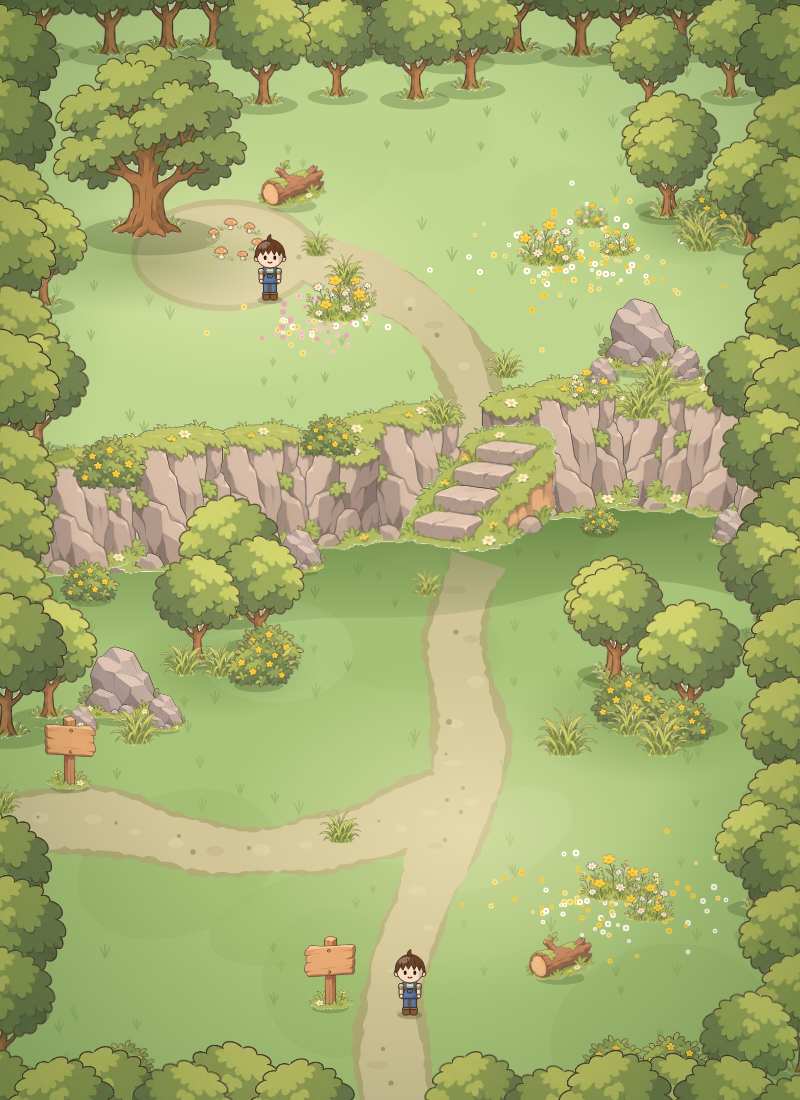
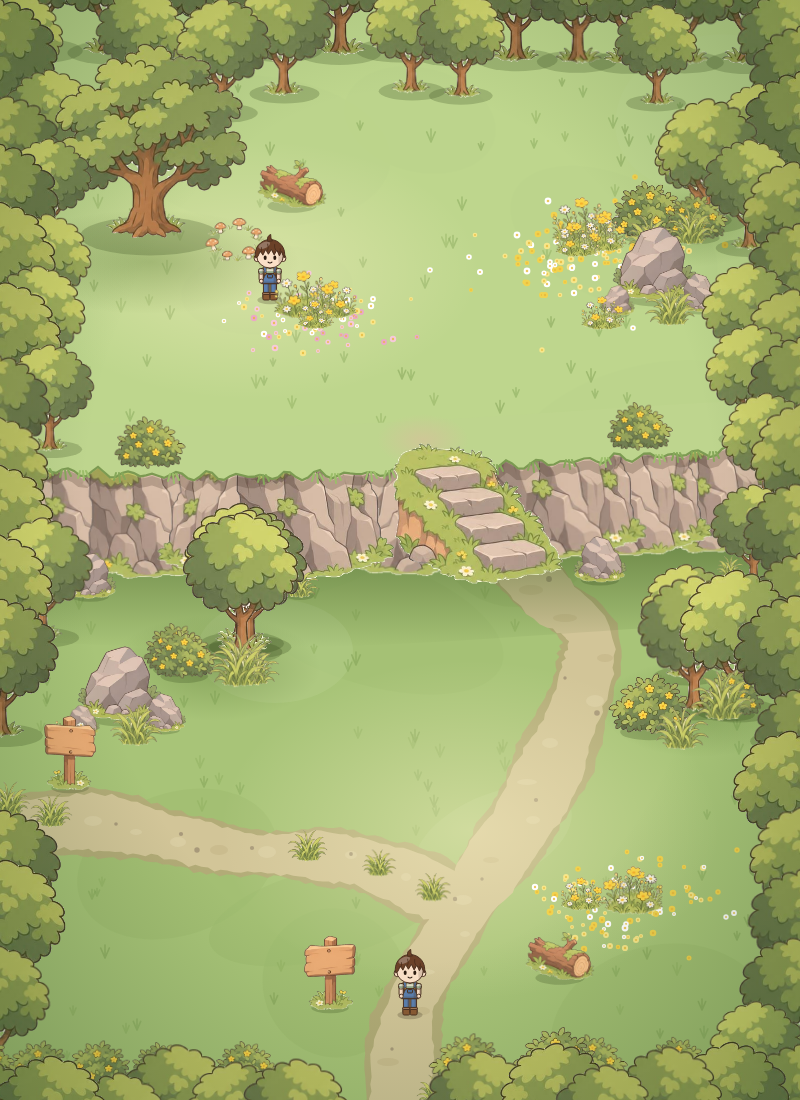
115 1115 0742

diff --git a/tools/map_layout_ref.py b/tools/map_layout_ref.py
@@ -15,8 +15,11 @@ def put(k,x,y,s=1.0,flip=None,br=1.0,shadow=True,flat=False):
     objs.append((-1e9 if flat else y,g))
 W,H=800,1100
 # ---------- terrace edge (wavy) ----------
-def E(x): return 438+26*math.sin(x/800*math.pi*1.7+0.6)+10*math.sin(x/800*math.pi*4.3)
-TH=108; GAP=(430,526)
+def E(x): return 452+14*math.sin(x/800*math.pi*1.25+0.4)
+TH=112; GAP=(418,538)
+SX=(GAP[0]+GAP[1])/2; SH=140; SW=SH*324/267
+STX0=SX-SW/2; STY0=E(SX)+TH+14-SH
+S_TOP=(STX0+SW*0.27,STY0+SH*0.12); S_BOT=(STX0+SW*0.76,STY0+SH*0.86)   # stairs are mirrored: they climb up-left
 # ---------- ground ----------
 g=[f'<rect x="-40" y="-40" width="{W+80}" height="{H+80}" fill="#A8C478"/>']
 for i in range(16):
@@ -44,9 +47,10 @@ def ribbon(P,w,seed,taper=False):
         if taper: hw*=min(1,(n-1-i)/14+0.15)
         L.append((x+nx*(hw+rr.uniform(-2,2)),y+ny*(hw+rr.uniform(-2,2)))); Rr.append((x-nx*(hw+rr.uniform(-2,2)),y-ny*(hw+rr.uniform(-2,2))))
     poly=L+Rr[::-1]; return 'M'+' L'.join(f'{x:.1f} {y:.1f}' for x,y in poly)+'Z', pts
-paths=[ ([(400,1140),(392,1000),(430,880),(470,760),(455,640),(478,560)],58,1,False),      # south exit -> stairs
-        ([(-40,835),(90,820),(220,850),(340,840),(446,800)],50,2,False),                  # west exit joins
-        ([(478,450),(470,380),(420,310),(330,265),(250,250)],46,3,True) ]                 # top: stairs -> lookout clearing
+dx,dy=S_TOP[0]-S_BOT[0],S_TOP[1]-S_BOT[1]; dl=math.hypot(dx,dy); ux,uy=dx/dl,dy/dl
+paths=[ ([(400,1140),(410,1010),(470,900),(540,790),(S_BOT[0]-ux*110,S_BOT[1]-uy*110),(S_BOT[0]-ux*40,S_BOT[1]-uy*40),(S_BOT[0]+ux*6,S_BOT[1]+uy*6)],56,1,False),   # south exit -> foot of stairs, arriving along the stairs' axis
+        ([(-40,835),(90,822),(230,850),(360,862),(462,905)],48,2,False),                                                # west exit joins the main path
+      ]
 pe=[];pf=[];pp=[]
 for P,w,sd,tp in paths:
     d,pts=ribbon(P,w+10,sd,tp); pe.append(f'<path d="{d}" fill="#B5A678" opacity=".8"/>')
@@ -58,14 +62,14 @@ for P,w,sd,tp in paths:
         if rr.random()<.45: pp.append(f'<circle cx="{x+rr.uniform(-w*.42,w*.42):.0f}" cy="{y+rr.uniform(-5,5):.0f}" r="{rr.uniform(1.5,3):.1f}" fill="#A8997A"/>')
 # lookout clearing (dirt patch) at end of top path
 clear=f'<ellipse cx="225" cy="255" rx="92" ry="54" fill="#B5A678" opacity=".8"/><ellipse cx="225" cy="255" rx="84" ry="47" fill="#D2C598"/>'
-clear=f'<ellipse cx="225" cy="255" rx="88" ry="50" fill="#D2C598"/>'
-g+= pe+[f'<ellipse cx="225" cy="255" rx="94" ry="56" fill="#B5A678" opacity=".8"/>']+pf+[clear]+pp
+clear=''
+g+= pe+pf+pp
 # grass tufts & tiny flowers on ground (decals)
 def inpath(x,y):
     for P,w,sd,tp in paths:
         for (px,py) in spline(P,20):
             if abs(px-x)<w*0.55 and abs(py-y)<w*0.55: return True
-    return math.hypot((x-225)/90,(y-255)/52)<1
+    return False
 for i in range(230):
     x,y=R.uniform(30,770),R.uniform(70,1070)
     if inpath(x,y) or (E(x)+8<y<E(x)+TH+14): continue
@@ -82,7 +86,7 @@ t.append(f'<path d="{sh}" fill="url(#shg)"/>')
 for a,b in ((-40,GAP[0]),(GAP[1],840)):
     d='M'+' L'.join(f'{x} {E(x)+10:.1f}' for x in range(a,b+1,10))+' '+' '.join(f'L{x} {E(x)+TH-8:.1f}' for x in range(b,a-1,-10))+'Z'
     t.append(f'<path d="{d}" fill="#9F8A7C"/>')
-t.append(f'<path d="M{GAP[0]-6} {E(GAP[0])+14:.0f} L{GAP[1]+6} {E(GAP[1])+14:.0f} L{GAP[1]+6} {E(GAP[1])+TH-6:.0f} L{GAP[0]-6} {E(GAP[0])+TH-6:.0f}Z" fill="#6E5C50"/>')
+t.append(f'<path d="M{GAP[0]-6} {E(GAP[0])+14:.0f} L{GAP[1]+6} {E(GAP[1])+14:.0f} L{GAP[1]+6} {E(GAP[1])+TH-6:.0f} L{GAP[0]-6} {E(GAP[0])+TH-6:.0f}Z" fill="#8C796C"/>')
 tiles=[]
 aw=128*1.0
 for a,b in ((-40,GAP[0]+10),(GAP[1]-10,840)):
@@ -94,8 +98,22 @@ w0,h0=DIM['cliff']
 for by,cx,k,fl in tiles:
     hh=137*k; ww=hh*w0/h0
     t.append(f'<g transform="translate({cx:.1f} {by:.1f}) scale({-1 if fl else 1} 1)"><image href="{A}cliff.png" x="{-ww/2:.1f}" y="{-hh:.1f}" width="{ww:.1f}" height="{hh:.1f}"/></g>')
-sx=(GAP[0]+GAP[1])/2; w0,h0=DIM['stairs']; shh=132; sww=shh*w0/h0
-t.append(f'<image href="{A}stairs.png" x="{sx-sww/2:.1f}" y="{E(sx)+TH+12-shh:.1f}" width="{sww:.1f}" height="{shh:.1f}"/>')
+# grass lip: the high ground itself flows over the edge and hides the sprites' own tops (a wall has a top; a cliff's top IS the ground)
+HI="#BED58E"
+for a_,b_ in ((-40,840),):
+    xs=list(range(a_,b_+1,6)); top=[(x,E(x)-40) for x in xs]; bot=[]
+    ph=R.uniform(0,6)
+    for x in xs: bot.append((x,E(x)+7+5*abs(math.sin(x*0.085+ph))+3*math.sin(x*0.23+ph)))
+    d='M'+' L'.join(f'{x} {y:.1f}' for x,y in top)+' '+' '.join(f'L{x} {y:.1f}' for x,y in bot[::-1])+'Z'
+    t.append(f'<path d="M'+' L'.join(f'{x} {y+7:.1f}' for x,y in bot)+f'" fill="none" stroke="#3A2A1C" stroke-width="9" opacity=".22" stroke-linecap="round"/>')
+    t.append(f'<path d="{d}" fill="{HI}"/>')
+    t.append(f'<path d="M'+' L'.join(f'{x} {y:.1f}' for x,y in bot)+f'" fill="none" stroke="#7C9A52" stroke-width="2.2" stroke-linecap="round"/>')
+    for x in xs[2:-2:3]:
+        if R.random()<.5:
+            y=E(x)+9; c=R.choice(['#86A85A','#9CBE6A'])
+            t.append(f'<path d="M{x} {y:.0f} l-2 7 M{x+3} {y:.0f} l1 9 M{x+6} {y:.0f} l3 6" stroke="{c}" stroke-width="2" stroke-linecap="round" fill="none"/>')
+t.append(f'<ellipse cx="{S_TOP[0]+ux*26:.0f}" cy="{S_TOP[1]+uy*26:.0f}" rx="46" ry="26" fill="url(#worn)"/>')   # no path on the high ground: only a worn patch at the head of the stairs
+t.append(f'<g transform="translate({SX:.1f} 0) scale(-1 1) translate({-SX:.1f} 0)"><image href="{A}stairs.png" x="{STX0:.1f}" y="{STY0:.1f}" width="{SW:.1f}" height="{SH:.1f}"/></g>')
 # ---------- border: staggered, varied, wavy inner edge ----------
 def exit_gap(side,v):
     if side=='s' and abs(v-400)<70: return True
@@ -140,13 +158,13 @@ def outcrop(cx,cy):
 # high ground: lookout with hero oak beside the clearing, flower meadow, outcrop
 put('oak',150,238,1.05,flip=False)
 meadow(318,318,9,74,30,pal=('#FFFFFF','#F6C9DA','#EBA9C6','#F7E68A')); meadow(585,255,12,105,48)
-outcrop(640,372); put('log',292,208,1.0)
+outcrop(655,300); put('log',292,208,1.0)
 grove(690,205,2,46)
 put('mush',235,262,1.1,shadow=False,flat=False)
 # edge dressing on the lip (sells that the top continues to the edge)
-for x in (110,330,640): put('bush' if R.random()<.5 else 'tg',x,E(x)+18,R.uniform(.7,.95),shadow=False)
+for x in (150,640): put('bush',x,E(x)+4,R.uniform(.7,.9),shadow=False)
 # low ground
-grove(215,650,3,56); grove(650,700,3,70,oak=False)
+grove(215,650,3,56); grove(700,690,3,52,oak=False)
 meadow(615,905,11,110,46)
 outcrop(120,720)
 for x in (90,300,600,730):   # things leaning against the cliff base
@@ -166,6 +184,6 @@ objs.append((1015,f'<g transform="translate(410 1015) scale(1.15)">{ava}</g>'))
 objs.append((300,f'<g transform="translate(270 300) scale(1.15)">{ava}</g>'))
 objs.sort(key=lambda o:o[0])
 css=open('out/game.css',encoding='utf8').read()
-defs='<defs><radialGradient id="gsh"><stop offset="0" stop-color="#4E6E2A" stop-opacity=".34"/><stop offset="1" stop-color="#4E6E2A" stop-opacity="0"/></radialGradient><radialGradient id="sun"><stop offset="0" stop-color="#FFF6C8" stop-opacity=".42"/><stop offset="1" stop-color="#FFF6C8" stop-opacity="0"/></radialGradient><radialGradient id="vig" cx=".5" cy=".48" r=".72"><stop offset=".55" stop-color="#22401A" stop-opacity="0"/><stop offset="1" stop-color="#22401A" stop-opacity=".30"/></radialGradient><linearGradient id="shg" x1="0" y1="0" x2="0" y2="1"><stop offset="0" stop-color="#3F5A22" stop-opacity=".55"/><stop offset="1" stop-color="#3F5A22" stop-opacity="0"/></linearGradient></defs>'
+defs='<defs><radialGradient id="worn"><stop offset="0" stop-color="#D2C598" stop-opacity=".85"/><stop offset="1" stop-color="#D2C598" stop-opacity="0"/></radialGradient><radialGradient id="gsh"><stop offset="0" stop-color="#4E6E2A" stop-opacity=".34"/><stop offset="1" stop-color="#4E6E2A" stop-opacity="0"/></radialGradient><radialGradient id="sun"><stop offset="0" stop-color="#FFF6C8" stop-opacity=".42"/><stop offset="1" stop-color="#FFF6C8" stop-opacity="0"/></radialGradient><radialGradient id="vig" cx=".5" cy=".48" r=".72"><stop offset=".55" stop-color="#22401A" stop-opacity="0"/><stop offset="1" stop-color="#22401A" stop-opacity=".30"/></radialGradient><linearGradient id="shg" x1="0" y1="0" x2="0" y2="1"><stop offset="0" stop-color="#3F5A22" stop-opacity=".55"/><stop offset="1" stop-color="#3F5A22" stop-opacity="0"/></linearGradient></defs>'
 html=f'<!doctype html><html><head><meta charset="utf-8"><style>{css}</style><style>html,body{{margin:0;background:#222}}*{{animation:none!important}}</style></head><body><svg xmlns="http://www.w3.org/2000/svg" viewBox="0 0 {W} {H}" width="{W}" height="{H}">{defs}{"".join(g)}<ellipse cx="250" cy="270" rx="230" ry="130" fill="url(#sun)"/><ellipse cx="470" cy="830" rx="250" ry="170" fill="url(#sun)"/><ellipse cx="150" cy="262" rx="150" ry="52" fill="url(#gsh)"/>{"".join(SHADE)}{"".join(DRIFT)}{"".join(t)}{"".join(o[1] for o in objs)}<rect x="0" y="0" width="800" height="1100" fill="url(#vig)" pointer-events="none"/></svg></body></html>'
-open('mock_hill2.html','w',encoding='utf8').write(html); print(len(objs),'objects')
+open('mock_hill4.html','w',encoding='utf8').write(html); print(len(objs),'objects')

diff --git a/CLAUDE_第54節.md b/CLAUDE_第54節.md
@@ -1,0 +1,41 @@
+## 54. 連接與地形的合理性（2026-11-15 使用者指出；補充第 52、53 節。樣本 `tools/hill_target.png` 已照本節更新）
+
+狀態：可以實作，和第 53 節一起做。**所有地圖都要逐張檢查本節的每一條。**
+
+### 54.1 高地不可以看起來像圍牆（修改 52.2）
+- 問題：岩壁素材自己帶著一層草頂，後緣有一條外框線。排起來之後，草頂像「牆的頂面」，牆後面又是同樣高的地面，所以看不出來是高地還是一道牆；再加上波浪太大、石階兩邊高度不同，看起來像兩塊分開的東西。
+- 改法：
+  1. **高地自己蓋過邊緣**：岩壁素材排好之後，再畫一條和高地同色的草帶（樣本用 `#BED58E`），從上緣上方 40px 蓋到上緣下方約 7–12px，下緣是不規則的小波浪，把素材的草頂和那條外框線完全蓋掉。草帶下緣描一條深綠細線，下面的岩壁上加一道淡淡的陰影，再垂幾撮草。這樣畫面上只有「一片地面走到邊緣、然後往下掉」，沒有牆的頂面。
+  2. **一張圖的同一層高地只能有一條連續的邊緣**：波浪要平緩（樣本上下只有 ±14px），石階左右兩側的上緣高度要一樣。
+  3. 岩壁上緣不要放石堆或大物件緊貼著邊緣（會像邊緣又多一塊凸起）；只放 1–2 叢小灌木。
+- 同一條規則用在深溝的兩岸、台地、洞口上方。
+
+### 54.2 路、石階、橋、門一定要真的接上
+- **石階**：先找出石階圖上「最上面一階」和「最下面一階」的中心點。下面的路要沿著石階的方向走到最下面一階（最後 100px 和石階同方向）。石階圖可以左右鏡像來配合路的走向。
+- **高地上不鋪路**（使用者 2026-11-15 決定）：路只到石階腳下。石階最上面一階的前方只畫一小塊淡淡的踩踏痕跡（放射漸層、約 90×50px，往外淡出），畫在草帶（54.1）之上；高地本身是一片安靜的草地，不畫小路、不畫泥地。有地標在高地上時（例如雪原的冰洞），同樣不鋪路，只在洞口前畫一小塊踩踏痕跡。
+- **橋**：橋的兩端都要落在岸上（不可以落在水裡、溝裡或溝底），橋身要橫跨整個寬度並且和河或溝垂直；兩岸的路各自直直走到橋頭（最後 80px 和橋同方向）。橋的位置河道或溝要配合轉成垂直於橋的方向，並且稍微變窄。素材本身是斜的（沙漠吊橋、濕地木棧道、踏腳石）時，照素材的斜向安排河或溝的走向，不要硬擺。
+- **踏腳石、木棧道**：第一顆和最後一顆要碰到岸，兩端各有路或一小塊泥地。
+- **門、洞口、拱門**：建築的門、洞口、樹洞、神殿入口前面一定有路通到門口正前方；拱門一定有路從正中間穿過。
+- 路的其他規則照 53.2 第 3 點。
+
+### 54.3 目前已知沒接好的地方（全部要修；另外自己再逐張找一遍，回報多找到哪些）
+| 地圖 | 問題 |
+| --- | --- |
+| 沙漠 峽谷 | 吊橋太短，下端落在深溝裡；路沒對準橋頭；石階是斜的但路是直的 |
+| 草原 小河邊 | 橋是橫的、河是斜的；路斜著撞上橋 |
+| 森林 青苔谷 | 路和木板橋的方向不一致 |
+| 濕地 青蛙石像 | 踏腳石只蓋住小溪的一部分；路從石像底下穿過 |
+| 濕地 蓮花池 | 踏腳石兩端沒有路；路走到一半斷掉 |
+| 濕地 高腳屋聚落 | 路沒通到高腳屋的梯子 |
+| 雪原 冰洞前 | 路和石階沒對齊；高地上的路拿掉 |
+| 雪原 結冰湖 | 路畫進湖裡（舊木橋的路） |
+| 雪原 小木屋、森林 獵人小屋、草原 古井遺跡的樹屋與水井、沙漠 入口的帳篷 | 門前沒有路，或路從建築底下穿過 |
+
+### 54.4 沙漠峽谷的地形
+- 峽谷和台地是沙漠裡真實會有的地形，可以保留；但現在畫成一條邊緣筆直、像磚牆的溝，看起來像人挖的水溝。
+- 改法：
+  - 深溝改成**彎曲、寬窄不一的裂谷**（斜向橫過地圖，不要水平一直線），兩岸用 54.1 的做法：沙地自己走到邊緣再往下掉，遠側岸壁露出一層一層的砂岩（用 `sand_cliff` 素材連續排列），溝底由邊緣往中間變暗。
+  - 近側（靠畫面下方）的岸只看得到邊緣一條亮線和一小段陰影，不畫岩壁。
+  - 吊橋放在裂谷最窄的地方，照 54.2。
+  - 上方的懸崖照第 52 節做成階地；孤立的 `sidecliff` 刪除（52.2 第 6 點）。
+- 其他地區不要為了做機關而放不合理的地形：草原不放深溝、濕地不放懸崖。每個地區可用的阻隔方式：草原＝河、階地、樹叢、圍籬；森林＝樹叢、荊棘、溪、階地；濕地＝水面、蘆葦；沙漠＝沙丘、裂谷、台地、仙人掌叢；雪原＝樹叢、冰湖、階地、冰岩。

diff --git a/CLAUDE_第53節.md b/CLAUDE_第53節.md
@@ -1,6 +1,6 @@
 ## 53. 探索地圖重新擺設（2026-11-15；聊天室把 15l 的 34 張圖放大逐張看過，並重做一張「山丘」當樣本）
 
-狀態：使用者確認樣本方向後實作。**取代 51.1 的 A–D 與 51.2 的擺設部分**；52 的階地改成可以彎曲（53.3）。51.1 E–F、51.3、51.4 不變。
+狀態：使用者已確認方向，可以實作；連接與高地的畫法另見第 54 節（樣本已照第 54 節更新）。**取代 51.1 的 A–D 與 51.2 的擺設部分**；52 的階地改成可以彎曲（53.3）。51.1 E–F、51.3、51.4 不變。
 樣本：**`tools/hill_target.png`（使用者 2026-11-15 確認的目標畫面）**；`tools/hill_before_after.png` 是第一版（花太多，使用者認為不夠美，不要照這張）。參考程式：`tools/map_layout_ref.py`（聊天室實際產生右圖的程式，Python，產生 SVG；請把畫法移植進遊戲）。
 
 ### 53.1 根本原因
